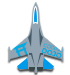
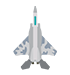
Add limite pantalla, nuevos assets

diff --git a/index.html b/index.html
@@ -8,23 +8,23 @@
 <body>
 	<style type="text/css">
 		#ocean {
-			background-image: url("ocean.jpg");
-			width: 900px;
-			height: 500px;
+			background-image: url("tierra_desde_el_cielo.jpg");
+			width: 740px;
+			height: 494px;
 		}
 
 		.player {
 			position: absolute;
 			background-image: url("player.png");
-			width: 70px;
-			height: 75px;
+			width: 75px;
+			height: 70px;
 		}
 
 		.enemy {
 			position: absolute;
-			background-image: url("enemy.png");
-			width: 70px;
-			height: 75px;
+			background-image: url("enemy_2.png");
+			width: 128px;
+			height: 128px;
 		}
 	</style>
 
@@ -36,18 +36,22 @@
 	<script type="text/javascript">
 
 		var player = {
-			left: 450,
-			top: 420
+			left: 350,
+			top: 400
 		}
 		var enemies = [
-			{ left: 350, top: 200 },
-			{ left: 450, top: 250 }
+			{ left: 50, top: 50 },
+			{ left: 150, top: 50 },
+			{ left: 250, top: 50 },
+			{ left: 350, top: 50 },
+			{ left: 450, top: 50 },
+			{ left: 550, top: 50 },
 		]
 		var limitePantalla = {
 			left: 10,
 			right: 830,
 			up: 10,
-			down: 420
+			down: (494 / 3) * 2 // dividir a 1/3 del limite de la pantalla
 		}
 
 		function drawPlayer() {
